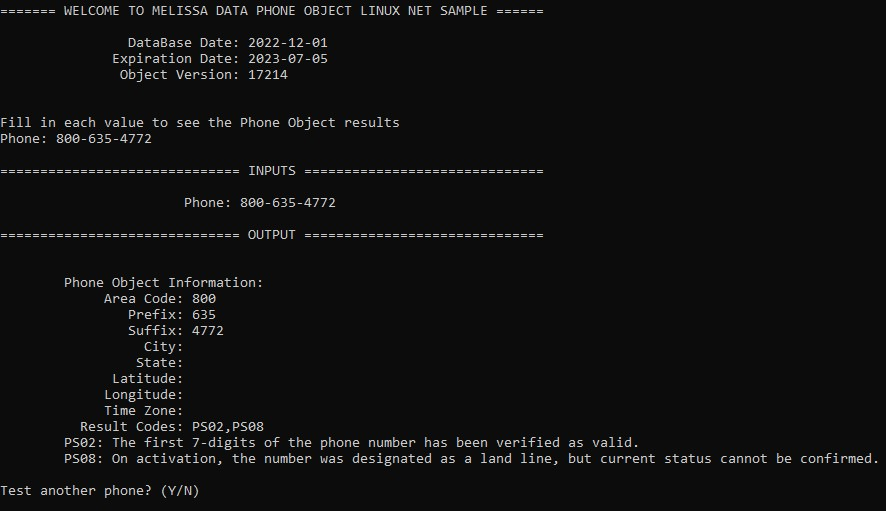
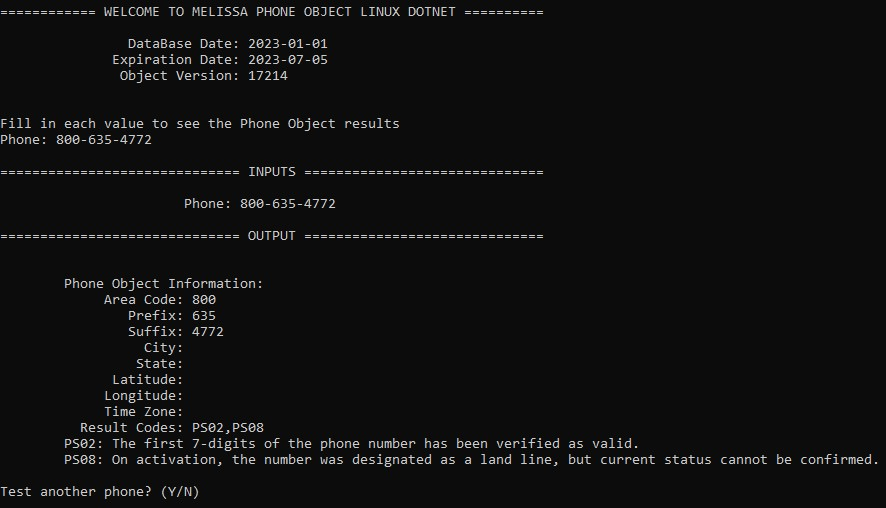
Commit C# Dotnet code for Phone Object with release notes

diff --git a/MelissaPhoneObjectLinuxDotnet/Program.cs b/MelissaPhoneObjectLinuxDotnet/Program.cs
@@ -5,7 +5,7 @@ using System.IO;
 using System.Reflection;
 using MelissaData;
 
-namespace MelissaDataPhoneObjectLinuxNETSample
+namespace MelissaPhoneObjectLinuxDotnet
 {
   class Program
   {
@@ -50,8 +50,8 @@ namespace MelissaDataPhoneObjectLinuxNETSample
 
     static void RunAsConsole(string license, string testPhone, string dataPath)
     {
-      Console.WriteLine("\n\n======= WELCOME TO MELISSA DATA PHONE OBJECT LINUX NET SAMPLE ======\n");
-
+      Console.WriteLine("\n\n============ WELCOME TO MELISSA PHONE OBJECT LINUX DOTNET ==========\n");
+      
       PhoneObject phoneObject = new PhoneObject(license, dataPath);
 
       bool shouldContinueRunning = true;
@@ -145,16 +145,16 @@ namespace MelissaDataPhoneObjectLinuxNETSample
           }
         }
       }
-      Console.WriteLine("\n============ THANK YOU FOR USING MELISSA DATA NET OBJECT ===========\n");
+      Console.WriteLine("\n============ THANK YOU FOR USING MELISSA DOTNET OBJECT ===========\n");
     }
   }
 
   class PhoneObject
   {
-    // Path to phone object data files (.dat, etc)
+    // Path to Phone Object data files (.dat, etc)
     string dataFilePath; 
 
-    // Create instance of Melissa Data Phone Object
+    // Create instance of Melissa Phone Object
     public mdPhone mdPhoneObj = new mdPhone();
 
     public PhoneObject(string license, string dataPath)
@@ -177,7 +177,7 @@ namespace MelissaDataPhoneObjectLinuxNETSample
       Console.WriteLine($"              Expiration Date: {mdPhoneObj.GetLicenseExpirationDate()}");
 
       /**
-       * This number should match with file properties of the Melissa Data Object binary file.
+       * This number should match with file properties of the Melissa Object binary file.
        * If TEST appears with the build number, there may be a license key issue.
        */
       Console.WriteLine($"               Object Version: {mdPhoneObj.GetBuildNumber()}\n");
@@ -194,8 +194,8 @@ namespace MelissaDataPhoneObjectLinuxNETSample
 
       data.ResultCodes = mdPhoneObj.GetResults();
 
-      // ResultsCodes explain any issues phone object has with the object.
-      // List of result codes for Phone object
+      // ResultsCodes explain any issues Phone Object has with the object.
+      // List of result codes for Phone Object
       // https://wiki.melissadata.com/?title=Result_Code_Details#Phone_Object
     }
   }

diff --git a/README.md b/README.md
@@ -1,8 +1,12 @@
-# Melissa Data Phone Object Linux Net Sample
+# Melissa - Phone Object Linux Dotnet
 
 ## Purpose
 
-This is a sample of the Melissa Data Phone Object using C#
+This code showcases the Melissa Phone Object using C#.
+
+Please feel free to copy or embed this code to your own project. Happy coding!
+
+For the latest Melissa Phone Object release notes, please visit: https://releasenotes.melissa.com/on-premise-api/phone-object/
 
 The console will ask the user for:
 
@@ -30,7 +34,7 @@ And return
 
 #### libmdPhone.so
 
-This is the code of the Melissa Data Object.
+This is the code of the Melissa Object.
 
 #### Data File(s)
 - mdGlobalPhone.dat
@@ -109,19 +113,19 @@ Melissa Updater is a CLI application allowing the user to update their Melissa a
 	- It will handle all of the data download/path and .so file(s) for you. 
 2.  If you already have the latest DQS Release (ZIP), you can find the data file(s) and .so file(s) in there
 	- Use the location of where you copied/installed the data and update the "DataPath" variable in the bash script.
-	- Copy all the .so file(s) mentioned above into the `MelissaDataPhoneObjectLinuxNETSample` project folder.
+	- Copy all the .so file(s) mentioned above into the `MelissaPhoneObjectLinuxDotnet` project folder.
 	
 ----------------------------------------
 
 #### Configure Target Framework
 
-Depending on your target .NET framework, you may need to configure the bash script. In order to do this, open up the `MelissaDataPhoneObjectLinuxNETSample.sh` for editing, proceed to the bottom of the script where you will find this section of code.
+Depending on your target .NET framework, you may need to configure the bash script. In order to do this, open up the `MelissaPhoneObjectLinuxDotnet.sh` for editing, proceed to the bottom of the script where you will find this section of code.
 
 Default set for .NET 7.0
 ```
-dotnet publish -f="net7.0" -c Release -o $BuildPath MelissaDataPhoneObjectLinuxNETSample/MelissaDataPhoneObjectLinuxNETSample.csproj
-#dotnet publish -f="net5.0" -c Release -o $BuildPath MelissaDataPhoneObjectLinuxNETSample/MelissaDataPhoneObjectLinuxNETSample.csproj
-#dotnet publish -f="netcoreapp3.1" -c Release -o $BuildPath MelissaDataPhoneObjectLinuxNETSample/MelissaDataPhoneObjectLinuxNETSample.csproj
+dotnet publish -f="net7.0" -c Release -o $BuildPath MelissaPhoneObjectLinuxDotnet/MelissaPhoneObjectLinuxDotnet.csproj
+#dotnet publish -f="net5.0" -c Release -o $BuildPath MelissaPhoneObjectLinuxDotnet/MelissaPhoneObjectLinuxDotnet.csproj
+#dotnet publish -f="netcoreapp3.1" -c Release -o $BuildPath MelissaPhoneObjectLinuxDotnet/MelissaPhoneObjectLinuxDotnet.csproj
 ```
 
 The target framework is specified with the -f flag found in the command line. If you wish to use any version besides .NET 7.0, please uncomment the line containing that framework and comment out the line containing the .NET 7.0 framework (# to comment).
@@ -129,7 +133,7 @@ The target framework is specified with the -f flag found in the command line. If
 #### Change Bash Script Permissions
 To be able to run the bash script, you must first make it an executable using the command:
 
-`chmod +x MelissaDataPhoneObjectLinuxNETSample.sh`
+`chmod +x MelissaPhoneObjectLinuxDotnet.sh`
 
 As an indicator, the filename will change colors once it becomes an executable.
 
@@ -139,31 +143,31 @@ Parameters:
  	
   This is convenient when you want to get results for a specific phone number in one run instead of testing multiple phone numbers in interactive mode.
 
-- -l or --license (optional): a license string to test the phone object
+- -l or --license (optional): a license string to test the Phone Object
 - -q or --quiet (optional): add to the command if you do not want to get any console output from the Melissa Updater
 
 When you have modified the script to match your data location, let's run the script. There are two modes:
 - Interactive 
 
-	The script will prompt the user for a phone number, then use the provided number to test Phone object. For example:
+	The script will prompt the user for a phone number, then use the provided number to test Phone Object. For example:
 	```
-	$ ./MelissaDataPhoneObjectLinuxNETSample.sh
+	$ ./MelissaPhoneObjectLinuxDotnet.sh
 	```
   For quiet mode:
   ```
-  $ ./MelissaDataPhoneObjectLinuxNETSample.sh --quiet
+  $ ./MelissaPhoneObjectLinuxDotnet.sh --quiet
   ```
 - Command Line 
 
-	You can pass a phone number in ```--phone``` parameter and a license string in ```--license``` parameter to test Phone object. For example:
+	You can pass a phone number in ```--phone``` parameter and a license string in ```--license``` parameter to test Phone Object. For example:
 	```
-    $ ./MelissaDataPhoneObjectLinuxNETSample.sh --phone "800-635-4772" 
-    $ ./MelissaDataPhoneObjectLinuxNETSample.sh --phone "800-635-4772" --license "<your_license_string>"
+    $ ./MelissaPhoneObjectLinuxDotnet.sh --phone "800-635-4772" 
+    $ ./MelissaPhoneObjectLinuxDotnet.sh --phone "800-635-4772" --license "<your_license_string>"
     ```
 	For quiet mode:
     ```
-    $ ./MelissaDataPhoneObjectLinuxNETSample.sh --phone "800-635-4772" --quiet
-    $ ./MelissaDataPhoneObjectLinuxNETSample.sh --phone "800-635-4772" --license "<your_license_string>" --quiet
+    $ ./MelissaPhoneObjectLinuxDotnet.sh --phone "800-635-4772" --quiet
+    $ ./MelissaPhoneObjectLinuxDotnet.sh --phone "800-635-4772" --license "<your_license_string>" --quiet
     ```
 This is the expected output from a successful setup for interactive mode:
 
@@ -172,7 +176,7 @@ This is the expected output from a successful setup for interactive mode:
     
 ## Troubleshooting
 
-Troubleshooting for errors found while running your sample program.
+Troubleshooting for errors found while running your program.
 
 ### C# Errors:
 
@@ -186,8 +190,6 @@ Troubleshooting for errors found while running your sample program.
 
 ## Contact Us
 
-For free technical support, please call us at 800-MELISSA ext. 4
-(800-635-4772 ext. 4) or email us at tech@MelissaData.com.
+For free technical support, please call us at 800-MELISSA ext. 4 (800-635-4772 ext. 4) or email us at tech@melissa.com.
 
-To purchase this product, contact Melissa Data sales department at
-800-MELISSA ext. 3 (800-635-4772 ext. 3).
+To purchase this product, contact the Melissa sales department at 800-MELISSA ext. 3 (800-635-4772 ext. 3).

diff --git a/LICENSE.md b/LICENSE.md
@@ -1,0 +1,21 @@
+MIT License
+
+Copyright (c) Melissa Data Corporation
+
+Permission is hereby granted, free of charge, to any person obtaining a copy
+of this software and associated documentation files (the "Software"), to deal
+in the Software without restriction, including without limitation the rights
+to use, copy, modify, merge, publish, distribute, sublicense, and/or sell
+copies of the Software, and to permit persons to whom the Software is
+furnished to do so, subject to the following conditions:
+
+The above copyright notice and this permission notice shall be included in all
+copies or substantial portions of the Software.
+
+THE SOFTWARE IS PROVIDED "AS IS", WITHOUT WARRANTY OF ANY KIND, EXPRESS OR
+IMPLIED, INCLUDING BUT NOT LIMITED TO THE WARRANTIES OF MERCHANTABILITY,
+FITNESS FOR A PARTICULAR PURPOSE AND NONINFRINGEMENT. IN NO EVENT SHALL THE
+AUTHORS OR COPYRIGHT HOLDERS BE LIABLE FOR ANY CLAIM, DAMAGES OR OTHER
+LIABILITY, WHETHER IN AN ACTION OF CONTRACT, TORT OR OTHERWISE, ARISING FROM,
+OUT OF OR IN CONNECTION WITH THE SOFTWARE OR THE USE OR OTHER DEALINGS IN THE
+SOFTWARE.
